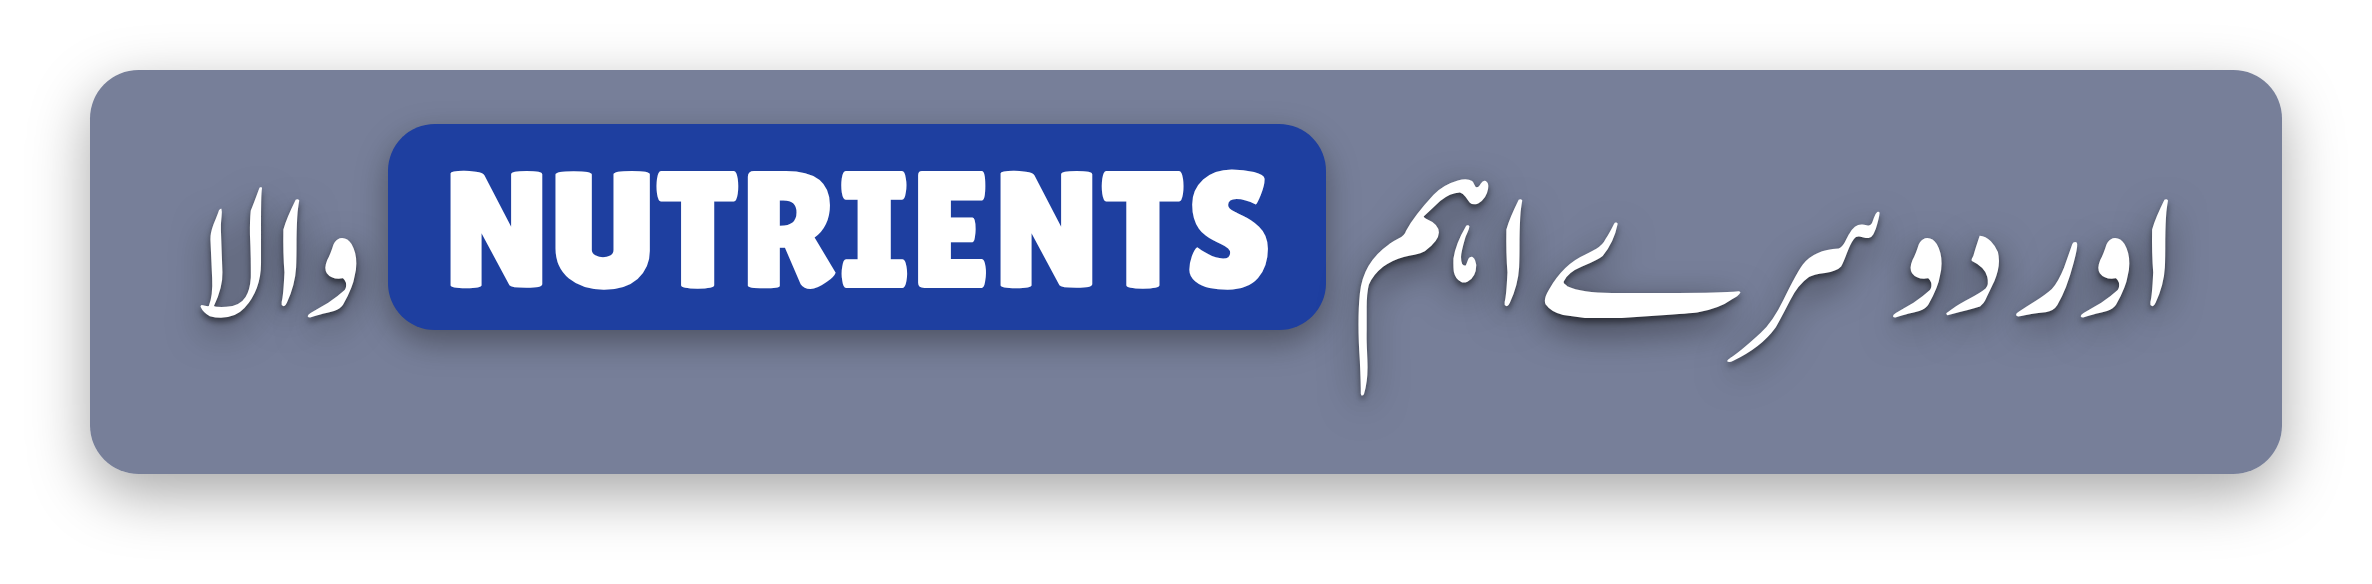
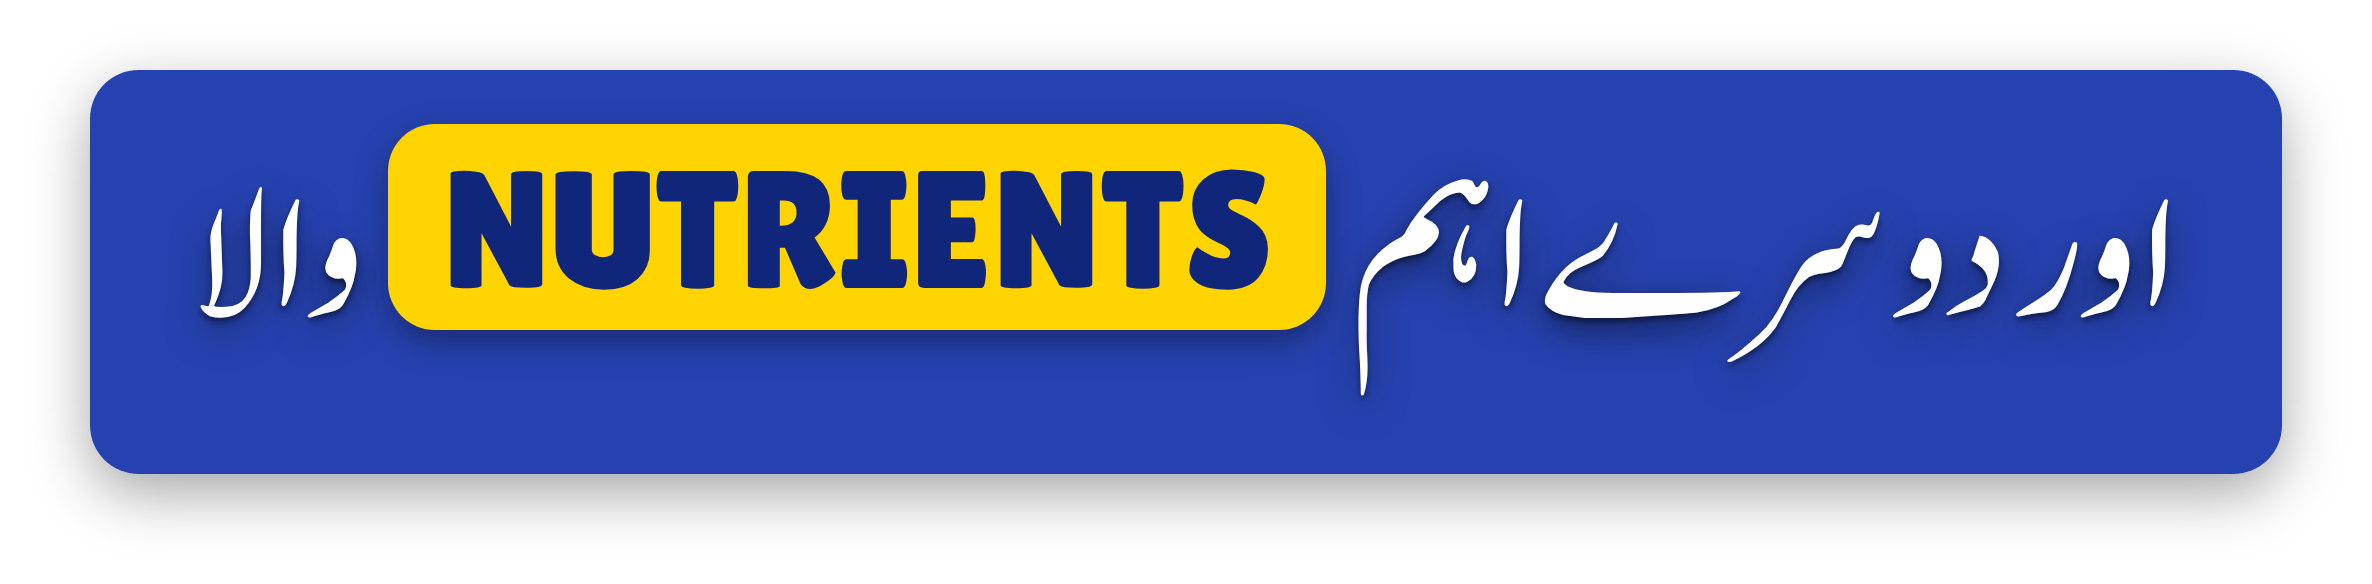
disco-bakery: Heavy Gold blue+gold design, punchier grade
Claude-Session: https://claude.ai/code/session_0139To4Bi5mkGo2BmfVPNRP3

diff --git a/tools/urdu_text.py b/tools/urdu_text.py
@@ -45,6 +45,7 @@ PRESETS = {
     "noori": dict(font="Jameel Noori Nastaleeq", color="#FFFFFF", stroke=0, stroke_color="#000", shadow=True, lh=1.7, k=1.25),
     "noori-gold": dict(font="Jameel Noori Nastaleeq", color="#FFD400", stroke=5, stroke_color="#1a1200", shadow=True, lh=1.7, k=1.25),
     "noori-red": dict(font="Jameel Noori Nastaleeq", color="#FF2A2A", stroke=7, stroke_color="#FFFFFF", shadow=True, lh=1.7, k=1.25),
+    "noori-blue": dict(font="Jameel Noori Nastaleeq", color="#10267A", stroke=0, stroke_color="#000", shadow=False, lh=1.7, k=1.25),
     "aslam-yellow": dict(font="Aslam", color="#FFC93C", stroke=0, stroke_color="#000", shadow=True, lh=1.5, k=1.3),
     "aslam-red": dict(font="Aslam", color="#FF3B30", stroke=0, stroke_color="#000", shadow=True, lh=1.5, k=1.3),
     "mehr": dict(font="Mehr Nastaliq", color="#FFFFFF", stroke=0, stroke_color="#000", shadow=True, lh=1.8, k=1.15),
@@ -61,6 +62,8 @@ PRESETS = {
                        pill="#1E3FA0"),
     "latin-pill-sky": dict(font="Lilita One", color="#0B1F5C", stroke=0, stroke_color="#000", shadow=False, lh=1.1, k=0.95, ltr=True,
                            pill="#5CC8FF"),
+    "latin-pill-gold": dict(font="Lilita One", color="#10267A", stroke=0, stroke_color="#000", shadow=False, lh=1.1, k=0.95, ltr=True,
+                            pill="#FFD400"),
     "latin": dict(font="Montserrat Black", color="#FFFFFF", stroke=0, stroke_color="#000", shadow=True, lh=1.05, k=0.8, ltr=True),
 }
 

diff --git a/Video Edits/Export/disco-bakery/storyboard.md b/Video Edits/Export/disco-bakery/storyboard.md
@@ -6,7 +6,7 @@ Heavy Gold bag going to Disco Bakery, Gulshan-e-Iqbal: vitamins, minerals, nutri
 
 ## Style taken from the reference
 
-Same as clip-nov21: Noori subtitles + Aslam sky-blue key words, English words on royal-blue Lilita pills (Heavy Gold bag palette), heading on royal-blue plates, mini trip bar, Heavy Gold end card on a crystal disc, click SFX, 4K, brighter + more saturated. Owner: don't clutter text -> no subtitles under the heading, no trip bar, smaller subtitles.
+Owner: colours more attractive, no clutter. Heavy GOLD brand palette: royal-blue plates + gold accents (Aslam gold key words, English words on gold Lilita pills), heading = white Aslam on royal blue + navy Noori on a gold plate, punchier grade, bigger end card. Click SFX per line.
 
 ![overview](storyboard/overview.jpg)
 
